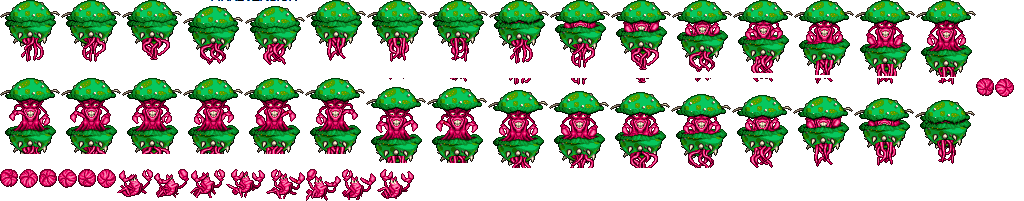
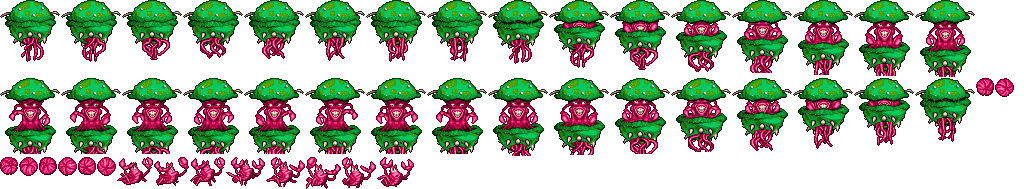
Audit pass 2 (art, levels, docs): sprite specs, Candy platform, docs
- Jazz's sprite spec pointed at a sheet outside the repo; it now uses
  the identical copy in new/New Tilesets/ (rebuild gives the same pixels).
- Spaz: the diagonal-aim strip no longer catches pixels from the row
  below (two frames floated him 14 px up) and keeps the gun in its last
  frame; dizzy keeps only the standing frames (the others anchored on
  the stars).
- Uterus: region tops no longer catch the sheet label or the tentacle
  tips of the row above.
- Candy Clouds: the last moving platform circles over the gap instead
  of sweeping through the landing island.
- Comments and docs: RF blast radius 36 px, measured jump heights,
  gradient-map location, render.js role, EXPERIMENT.md counts, phase
  order and builder example.

Claude-Session: https://claude.ai/code/session_014VrjeuzQF9z1CDhmbTuLih

diff --git a/src/config.js b/src/config.js
@@ -63,7 +63,7 @@ export const PHYS = {
   stompDrift: 12000 / 65536,         // measured: sideways drift during a buttstomp (doubled with Run)
   doubleJump: -8.0,                  // measured: Spaz's double jump launch
   doubleJumpWindow: 30,              // measured: ticks after releasing jump that it stays available
-  rfBlastSpeed: 8.0,                 // measured: an RF blast within 32 px throws the player at 8 px/tick...
+  rfBlastSpeed: 8.0,                 // measured: an RF blast within 36 px throws the player at 8 px/tick...
   rfBlastTicks: 30,                  // ...held for 30 ticks
   rfBlastRise: -12.0,                // measured: rise when blasted in the air
   jumpBufferTicks: 6,                // tuned

diff --git a/src/levels/candy.js b/src/levels/candy.js
@@ -87,7 +87,7 @@ export function candyClouds() {
   L.movingPlatform(72, 29, { length: 3, speed: 3, type: 4 });
   L.movingPlatform(115, 30, { length: 3, speed: -3, type: 4, sync: 2 });
   L.movingPlatform(139, 24, { length: 5, speed: 3, swing: true, type: 4 });
-  L.movingPlatform(184, 28, { length: 3, speed: 3, type: 4, sync: 1 });
+  L.movingPlatform(178, 28, { length: 3, speed: 3, type: 4, sync: 1 });
   return L.build({ name: 'Candy Clouds', theme: 'candy', music: 'meadow', horizon: 34 });
 }
 candyClouds.title = 'Candy Clouds';

diff --git a/src/player.js b/src/player.js
@@ -589,7 +589,7 @@ export class Player {
     this.hoverLeft = PHYS.hoverTicks;
   }
 
-  // An RF blast within 32 px throws the player away (measured: 8 px/tick for
+  // An RF blast within 36 px throws the player away (measured: 8 px/tick for
   // 30 ticks; in the air also up at 12, on the ground a little, growing with range).
   blast(dir, dist) {
     this.rfDir = dir; this.rfBlast = PHYS.rfBlastTicks;

diff --git a/EXPERIMENT.md b/EXPERIMENT.md
@@ -40,9 +40,10 @@ owner said so.
   context several times; each time a written summary carried the state
   forward. Commit messages and this file are the durable record.
 
-Sizes at the end: about 12,000 lines of game and tool code in 45 commits,
-17 sprite atlases, 9 hand-built levels and 39 original JJ2 level files the
-game can open.
+Sizes at the end: about 12,000 lines of game and tool code in 23 commits by
+Claude (47 in the history at the merge into main, plus the final audit
+commits), 17 sprite atlases, 9 hand-built levels and 33 original JJ2 levels
+the game can open (39 `.j2l` files, 6 of them MLLE extra-layer data).
 
 ## 2. Timeline
 
@@ -170,9 +171,11 @@ uppercut and kicks moved to the original's real input (crouch, then Jump).
 Speed shoes, the freeze hourglass and the stopwatch became pickups, matching
 JJ2 events the levels already used.
 
-### Phase 9: this document, two more audits, the merge
+### Phase 9: this document, the merge, two more audits
 
-Section 9 records the final audits.
+This file was written and the branch merged into main (`bf2ce1d`, by the
+project owner); the two final audits came after and were merged the same
+way. Section 9 records them.
 
 ## 3. How a frame runs
 
@@ -232,7 +235,8 @@ both.
 
 ### 4.3 Building levels (`src/levels/*.js`, `src/levels/kit.js`)
 
-Levels are code, written with a `Builder`:
+Levels are code, written with a `Builder` (an illustrative mix of calls from
+several levels):
 
 ```js
 const L = new Builder(200, 56);
@@ -240,8 +244,8 @@ L.profile([[0, 22], [26, 22], [30, 18], [40, 18]], 4);   // ground with slopes
 L.carve(115, 46, 11, 4).pool(115, 46, 11, 4);            // a rock pool
 L.weaponBlock(34, 43, 1, 3, 2);                          // bouncer-only door
 L.vine(48, 39, 11).movingPlatform(72, 29, { length: 3 });
-L.put(75, 9, 'Z');                                       // the Queen
-return L.build({ name: 'Shipwreck Shores', theme: 'beach', music: 'beach' });
+L.put(75, 9, 'Z');                                       // a boss (the Queen)
+return L.build({ name: 'Shipwreck Shores', theme: 'meadow', music: 'beach' });
 ```
 
 `kit.js` adds item shapes (arcs, rings, arrows of gems), scenery dressing,
@@ -337,14 +341,18 @@ be cut four ways:
    dizzy stars), which the shape slicer would break into many frames.
 
 Each frame gets an anchor (body centre, feet), so frames from different
-sheets line up. That is how the extra Jazz/Spaz poses from the unused-
-animation sheet merge into the main character atlases. Builds are
-deterministic: rebuilding an unchanged spec gives identical output, which
-was checked before every rebuild.
+sheets line up, as long as the box holds only the body: the final audit
+caught two Spaz animations whose boxes picked up stray pixels from the row
+below (or dizzy stars), which floated him off the ground. That is how the
+extra Jazz/Spaz poses from the unused-animation sheet merge into the main
+character atlases. Builds are deterministic: rebuilding an unchanged spec
+gives identical pixels, checked for every spec in the final audit (which
+also repointed Jazz's spec at the copy of his sheet inside the repo).
 
 Other tools: `build_font.py` (JJ2's fonts into glyph atlases),
-`build_blocks.py` (the shared block tiles), and gradient-map recolouring in
-`tilesets.js` for the three themes without their own tileset.
+`build_blocks.py` (the shared block tiles), and gradient-map recolouring
+(`gradientMap` in `src/art.js`, colour stops in `tilesets.js`) for the three
+themes without their own tileset.
 
 ## 6. Reading original JJ2 levels (`src/jj2/`)
 

diff --git a/README.md b/README.md
@@ -77,7 +77,8 @@ running straight to the right:
    and a lava lake, lit by the lava itself.
 9. **Crystal Caverns** (cave): a dark maze of irregular caves.
 
-Levels 5, 6 and 8 recolour existing tilesets with gradient maps (`tilesets.js`).
+Levels 5, 6 and 8 recolour existing tilesets with gradient maps (`gradientMap`
+in `src/art.js`, colour stops in `tilesets.js`).
 
 Every level has three stars to earn (reach the exit, collect 75% of the gems,
 find every secret), two secret areas, a Coin Warp to a bonus room,
@@ -225,7 +226,7 @@ src/sprites.js, paint.js  the few procedural sprites and their painting toolkit
 src/tilesets.js, terrain.js, backdrop.js, sky.js   built-in levels' ground, backdrops, skies, weather
 src/audio.js            JJ2 sound samples, tracker and recorded music, synthesized fallbacks
 src/sfxmap.js           game event -> sound sample number
-src/render.js           drawing, HUD and screens
+src/render.js           world drawing and the in-game HUD
 dev/                    sheet.html (frame viewer), sounds.html (sample listener)
 SPEC.md                 the measured mechanics and where they came from
 ```

diff --git a/SPEC.md b/SPEC.md
@@ -39,8 +39,9 @@ step per *game tick*. Values below are converted to pixels per tick.
 | Uppercut | -7.5 px/tick decaying by 0.03125 a tick for 30 ticks | Jazz2 Resurrection | measured |
 | RF blast | an RF missile going off within ~36 px throws the player away at 8 px/tick for 30 ticks (in the air also up at 12) | Jazz2 Resurrection | measured |
 
-Measured in game with these values: standing jump 4.1 tiles, running jump 6.7
-tiles high and about 19 across, super jump 6.7. Checked against the original's
+Measured in game with these values: standing jump 4.1 tiles, running jump 6.8
+tiles high and up to about 24 across (Run held from a full dash), super jump
+about 8.2 (264 px). Checked against the original's
 traces as documented in Jazz2 Resurrection: a held standing jump rises 132 px
 (original 132), a jump released on tick 5 rises 77.1 px (original 77.1), and
 Spaz's double jump adds 84 px (original about 80). Falling is not capped by
